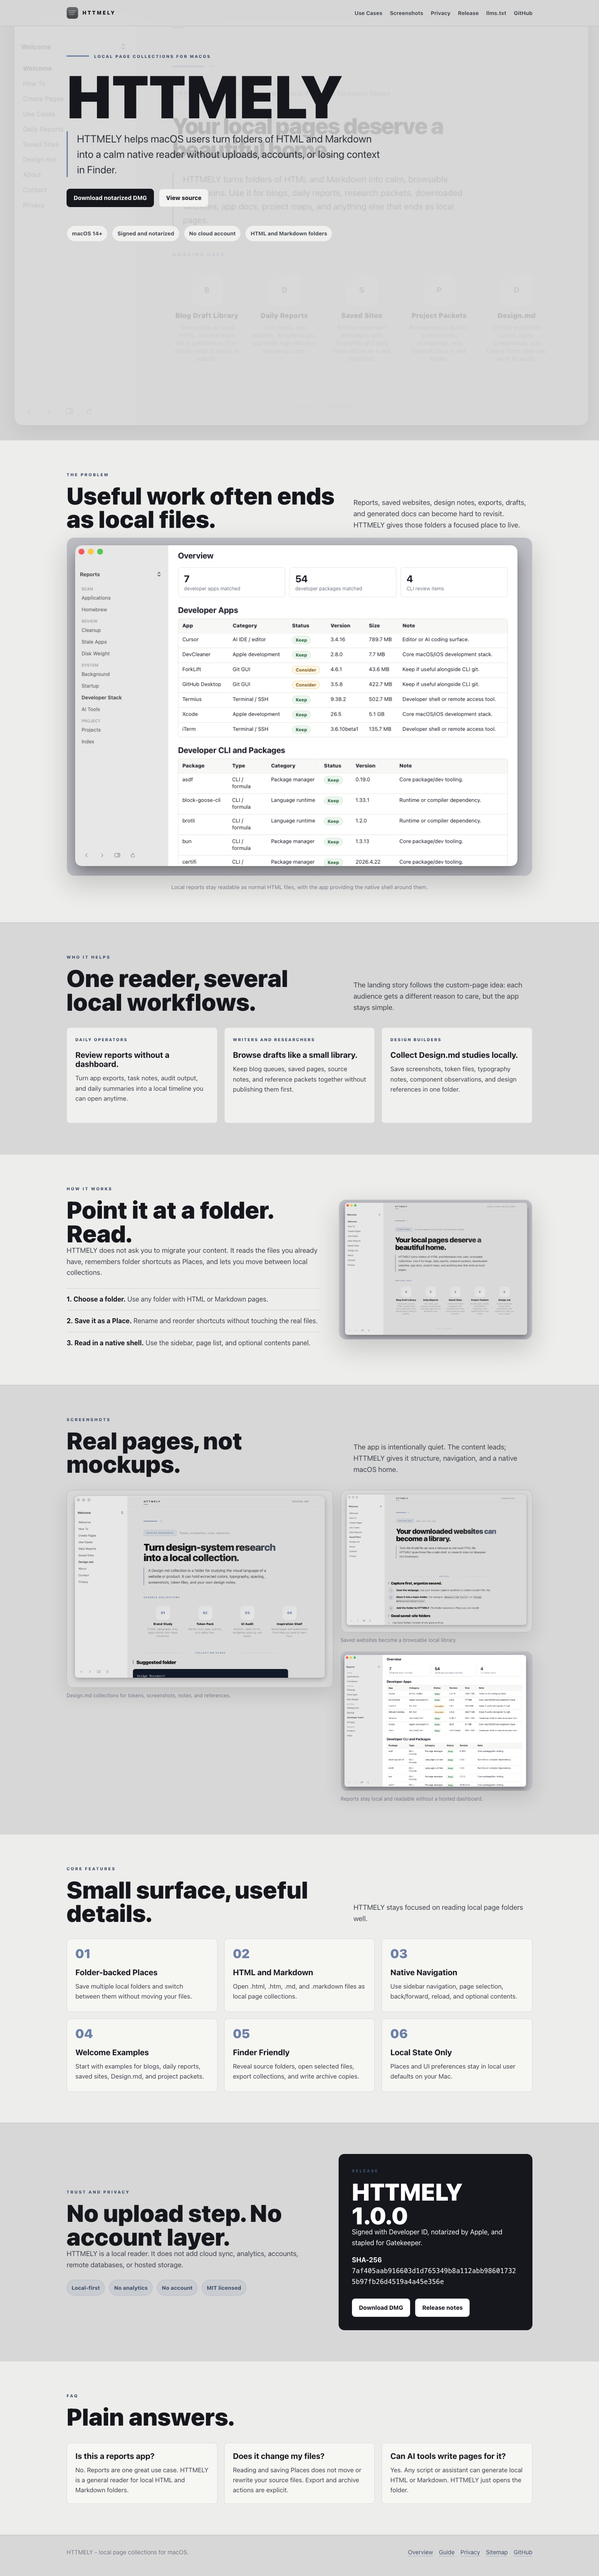
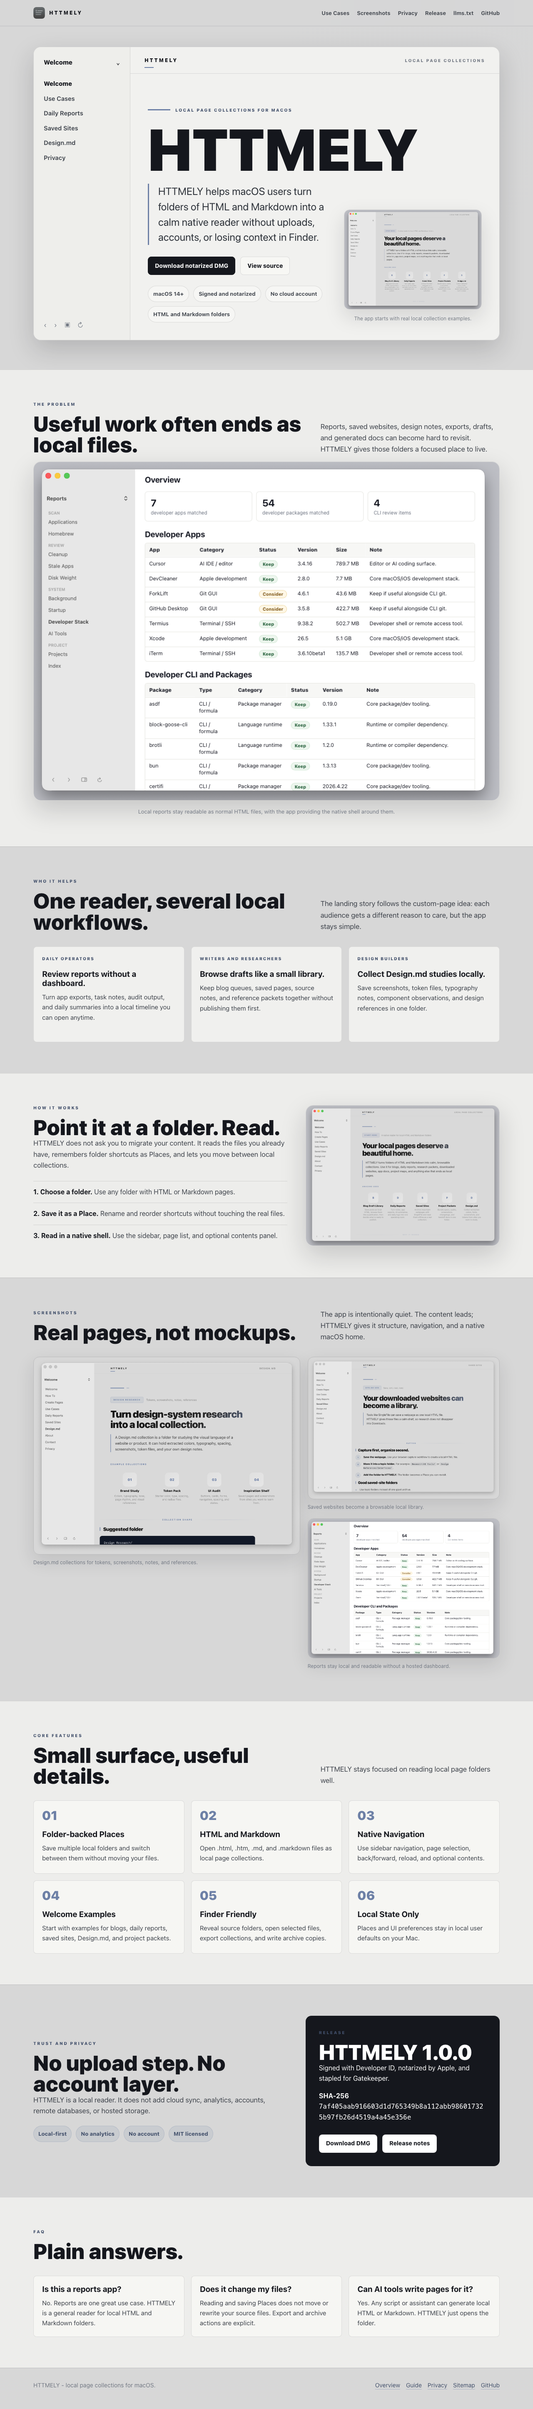
docs: fix landing hero readability

diff --git a/docs/index.html b/docs/index.html
@@ -143,24 +143,10 @@
     }
 
     .hero {
-      background-image: url("assets/htmelly-welcome-window.png");
-      background-position: center;
-      background-size: cover;
-      min-height: 88vh;
-      padding: 118px 0 72px;
-      position: relative;
-    }
-
-    .hero::before {
-      background: rgba(215, 215, 215, 0.84);
-      content: "";
-      inset: 0;
-      position: absolute;
-    }
-
-    .hero .wrap {
-      position: relative;
-      z-index: 1;
+      background:
+        linear-gradient(180deg, rgba(215, 215, 215, 0.96), rgba(215, 215, 215, 0.88)),
+        radial-gradient(circle at 82% 18%, rgba(109, 128, 166, 0.22), transparent 34%);
+      padding: 112px 0 70px;
     }
 
     .eyebrow {
@@ -208,6 +194,128 @@
       padding-left: 22px;
     }
 
+    .hero-window {
+      background: rgba(248, 248, 246, 0.78);
+      border: 1px solid rgba(21, 23, 29, 0.15);
+      border-radius: 18px;
+      box-shadow: var(--shadow);
+      display: grid;
+      grid-template-columns: 232px minmax(0, 1fr);
+      min-height: min(680px, calc(100vh - 168px));
+      overflow: hidden;
+    }
+
+    .hero-sidebar {
+      background: rgba(237, 237, 235, 0.88);
+      border-right: 1px solid var(--line);
+      display: flex;
+      flex-direction: column;
+      justify-content: space-between;
+      padding: 24px 24px 22px;
+    }
+
+    .hero-sidebar-title {
+      color: var(--ink);
+      display: flex;
+      font-size: 0.94rem;
+      font-weight: 820;
+      justify-content: space-between;
+      margin-bottom: 28px;
+    }
+
+    .hero-nav-list {
+      list-style: none;
+      margin: 0;
+      padding: 0;
+    }
+
+    .hero-nav-list li {
+      color: var(--text);
+      font-size: 0.92rem;
+      font-weight: 620;
+      margin-bottom: 12px;
+    }
+
+    .hero-nav-list li:first-child {
+      color: var(--ink);
+      font-weight: 850;
+    }
+
+    .hero-sidebar-foot {
+      color: var(--muted);
+      display: flex;
+      gap: 18px;
+      font-size: 1rem;
+    }
+
+    .hero-main {
+      display: grid;
+      grid-template-rows: auto 1fr;
+      min-width: 0;
+    }
+
+    .hero-toolbar {
+      align-items: center;
+      border-bottom: 1px solid var(--line);
+      display: flex;
+      justify-content: space-between;
+      min-height: 64px;
+      padding: 0 34px;
+    }
+
+    .hero-wordmark {
+      color: var(--ink);
+      font-size: 12px;
+      font-weight: 900;
+      letter-spacing: 0.24em;
+      position: relative;
+    }
+
+    .hero-wordmark::after {
+      background: var(--blue);
+      bottom: -9px;
+      content: "";
+      height: 2px;
+      left: 0;
+      position: absolute;
+      width: 22px;
+    }
+
+    .hero-toolbar-note {
+      color: var(--muted);
+      font-size: 10px;
+      font-weight: 850;
+      letter-spacing: 0.22em;
+      text-transform: uppercase;
+    }
+
+    .hero-reader {
+      display: grid;
+      gap: 34px;
+      grid-template-columns: minmax(0, 0.95fr) minmax(280px, 0.72fr);
+      padding: 70px 42px 42px;
+    }
+
+    .hero-reader-preview {
+      align-self: end;
+    }
+
+    .hero-reader-preview img {
+      border: 1px solid rgba(21, 23, 29, 0.13);
+      border-radius: 13px;
+      box-shadow: 0 18px 48px rgba(21, 23, 29, 0.13);
+      display: block;
+      height: auto;
+      width: 100%;
+    }
+
+    .hero-reader-preview p {
+      color: var(--muted);
+      font-size: 12px;
+      margin: 12px 0 0;
+      text-align: center;
+    }
+
     .hero-actions,
     .section-actions {
       display: flex;
@@ -252,7 +360,7 @@
       display: flex;
       flex-wrap: wrap;
       gap: 10px;
-      margin-top: 44px;
+      margin-top: 26px;
     }
 
     .proof-pill {
@@ -517,8 +625,36 @@
       }
 
       .hero {
-        min-height: 82vh;
         padding-top: 148px;
+      }
+
+      .hero-window {
+        grid-template-columns: 1fr;
+      }
+
+      .hero-sidebar {
+        border-bottom: 1px solid var(--line);
+        border-right: 0;
+        padding: 20px;
+      }
+
+      .hero-nav-list {
+        display: grid;
+        gap: 8px 14px;
+        grid-template-columns: repeat(2, minmax(0, 1fr));
+      }
+
+      .hero-nav-list li {
+        margin-bottom: 0;
+      }
+
+      .hero-sidebar-foot {
+        margin-top: 20px;
+      }
+
+      .hero-reader {
+        grid-template-columns: 1fr;
+        padding: 44px 28px 32px;
       }
 
       .section-head,
@@ -552,12 +688,38 @@
         font-size: 1.04rem;
       }
 
-      .hero::before {
-        background: rgba(215, 215, 215, 0.9);
-      }
-
       .band {
         padding: 54px 0;
+      }
+
+      .hero {
+        padding-top: 128px;
+      }
+
+      .hero-window {
+        border-radius: 14px;
+        min-height: 0;
+      }
+
+      .hero-sidebar {
+        display: none;
+      }
+
+      .hero-toolbar {
+        min-height: 58px;
+        padding: 0 18px;
+      }
+
+      .hero-toolbar-note {
+        display: none;
+      }
+
+      .hero-reader {
+        padding: 38px 18px 22px;
+      }
+
+      .hero-reader-preview {
+        display: none;
       }
 
       .release-box {
@@ -599,18 +761,56 @@
   <main>
     <section class="hero" aria-labelledby="hero-title">
       <div class="wrap">
-        <p class="eyebrow">Local page collections for macOS</p>
-        <h1 id="hero-title">HTTMELY</h1>
-        <p class="hero-copy">HTTMELY helps macOS users turn folders of HTML and Markdown into a calm native reader without uploads, accounts, or losing context in Finder.</p>
-        <div class="hero-actions">
-          <a class="button primary" href="https://github.com/dot-RealityTest/HTMELLY/releases/download/v1.0.0/HTTMELY-1.0.0.dmg">Download notarized DMG</a>
-          <a class="button" href="https://github.com/dot-RealityTest/HTMELLY">View source</a>
-        </div>
-        <div class="hero-proof" aria-label="Release facts">
-          <span class="proof-pill">macOS 14+</span>
-          <span class="proof-pill">Signed and notarized</span>
-          <span class="proof-pill">No cloud account</span>
-          <span class="proof-pill">HTML and Markdown folders</span>
+        <div class="hero-window">
+          <aside class="hero-sidebar" aria-label="Example HTTMELY places">
+            <div>
+              <div class="hero-sidebar-title">
+                <span>Welcome</span>
+                <span>⌄</span>
+              </div>
+              <ul class="hero-nav-list">
+                <li>Welcome</li>
+                <li>Use Cases</li>
+                <li>Daily Reports</li>
+                <li>Saved Sites</li>
+                <li>Design.md</li>
+                <li>Privacy</li>
+              </ul>
+            </div>
+            <div class="hero-sidebar-foot" aria-hidden="true">
+              <span>‹</span>
+              <span>›</span>
+              <span>▣</span>
+              <span>↻</span>
+            </div>
+          </aside>
+          <div class="hero-main">
+            <div class="hero-toolbar">
+              <span class="hero-wordmark">HTTMELY</span>
+              <span class="hero-toolbar-note">Local page collections</span>
+            </div>
+            <div class="hero-reader">
+              <div>
+                <p class="eyebrow">Local page collections for macOS</p>
+                <h1 id="hero-title">HTTMELY</h1>
+                <p class="hero-copy">HTTMELY helps macOS users turn folders of HTML and Markdown into a calm native reader without uploads, accounts, or losing context in Finder.</p>
+                <div class="hero-actions">
+                  <a class="button primary" href="https://github.com/dot-RealityTest/HTMELLY/releases/download/v1.0.0/HTTMELY-1.0.0.dmg">Download notarized DMG</a>
+                  <a class="button" href="https://github.com/dot-RealityTest/HTMELLY">View source</a>
+                </div>
+                <div class="hero-proof" aria-label="Release facts">
+                  <span class="proof-pill">macOS 14+</span>
+                  <span class="proof-pill">Signed and notarized</span>
+                  <span class="proof-pill">No cloud account</span>
+                  <span class="proof-pill">HTML and Markdown folders</span>
+                </div>
+              </div>
+              <div class="hero-reader-preview">
+                <img src="assets/htmelly-welcome-window.png" alt="HTTMELY showing the bundled Welcome collection">
+                <p>The app starts with real local collection examples.</p>
+              </div>
+            </div>
+          </div>
         </div>
       </div>
     </section>
